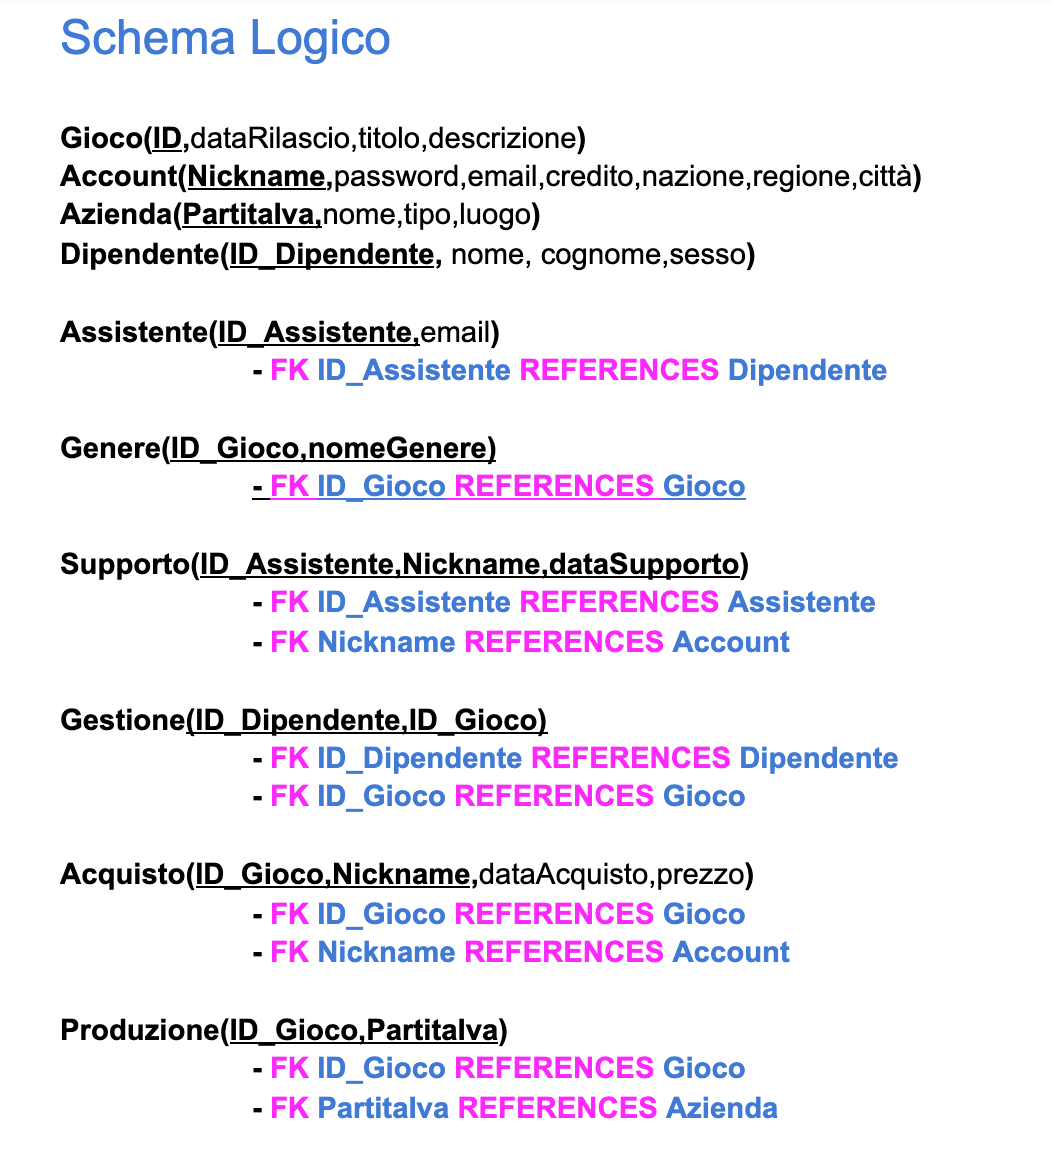
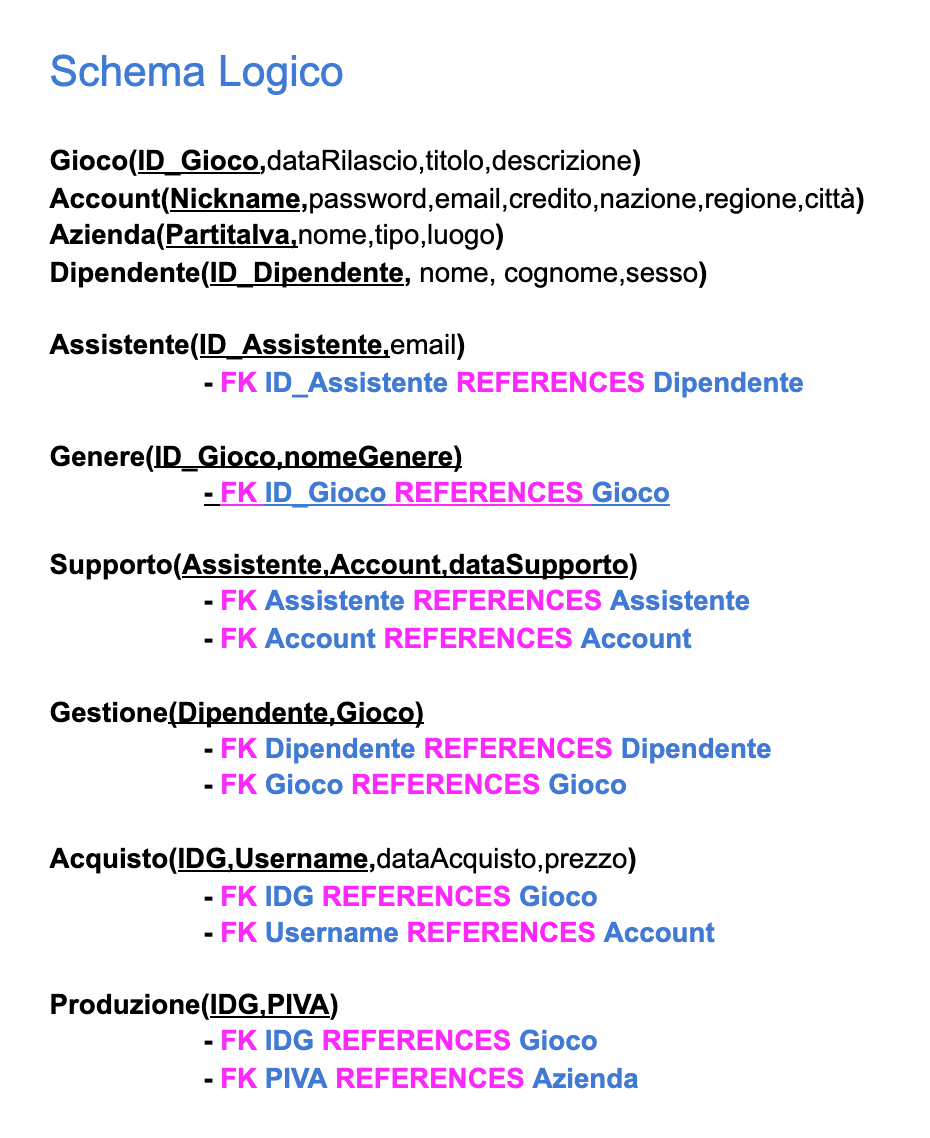
.

Changed region(s): [[0.0312, 0.0, 0.9355, 0.7074], [0.0624, 0.7381, 0.7796, 0.8304], [0.0312, 0.8612, 0.7484, 0.9534]]

diff --git a/DBProject/src/screens/MainWindow.java b/DBProject/src/screens/MainWindow.java
@@ -179,6 +179,23 @@ public class MainWindow {
         	
         	queryMenu.add(deleteQueryMenu);
         	
+        	JMenuItem searchQueryMenu = new JMenuItem("Search Horror games");
+        	searchQueryMenu.setForeground(new Color(30, 144, 255));
+        	searchQueryMenu.setBackground(new Color(255, 255, 255));
+        	searchQueryMenu.setFont(new Font("Helvetica Neue", Font.PLAIN, 14));
+        	searchQueryMenu.addActionListener((ActionEvent e)->{
+        		
+        		String qs = "select Gioco.id_gioco, titolo, nomegenere, datarilascio, Azienda.nome "
+        				+ "from (((Gioco join Genere on Gioco.id_gioco = Genere.id_gioco) "
+        				+ "join Produzione on Gioco.id_gioco = Produzione.idg) "
+        				+ "join Azienda on Produzione.piva = Azienda.partitaiva) "
+        				+ "where nomegenere = \"horror\"";
+        		searchField.setText(qs);
+        	
+            });
+        	
+        	queryMenu.add(searchQueryMenu);
+        	
         	
         	mb.add(queryMenu);
         }
